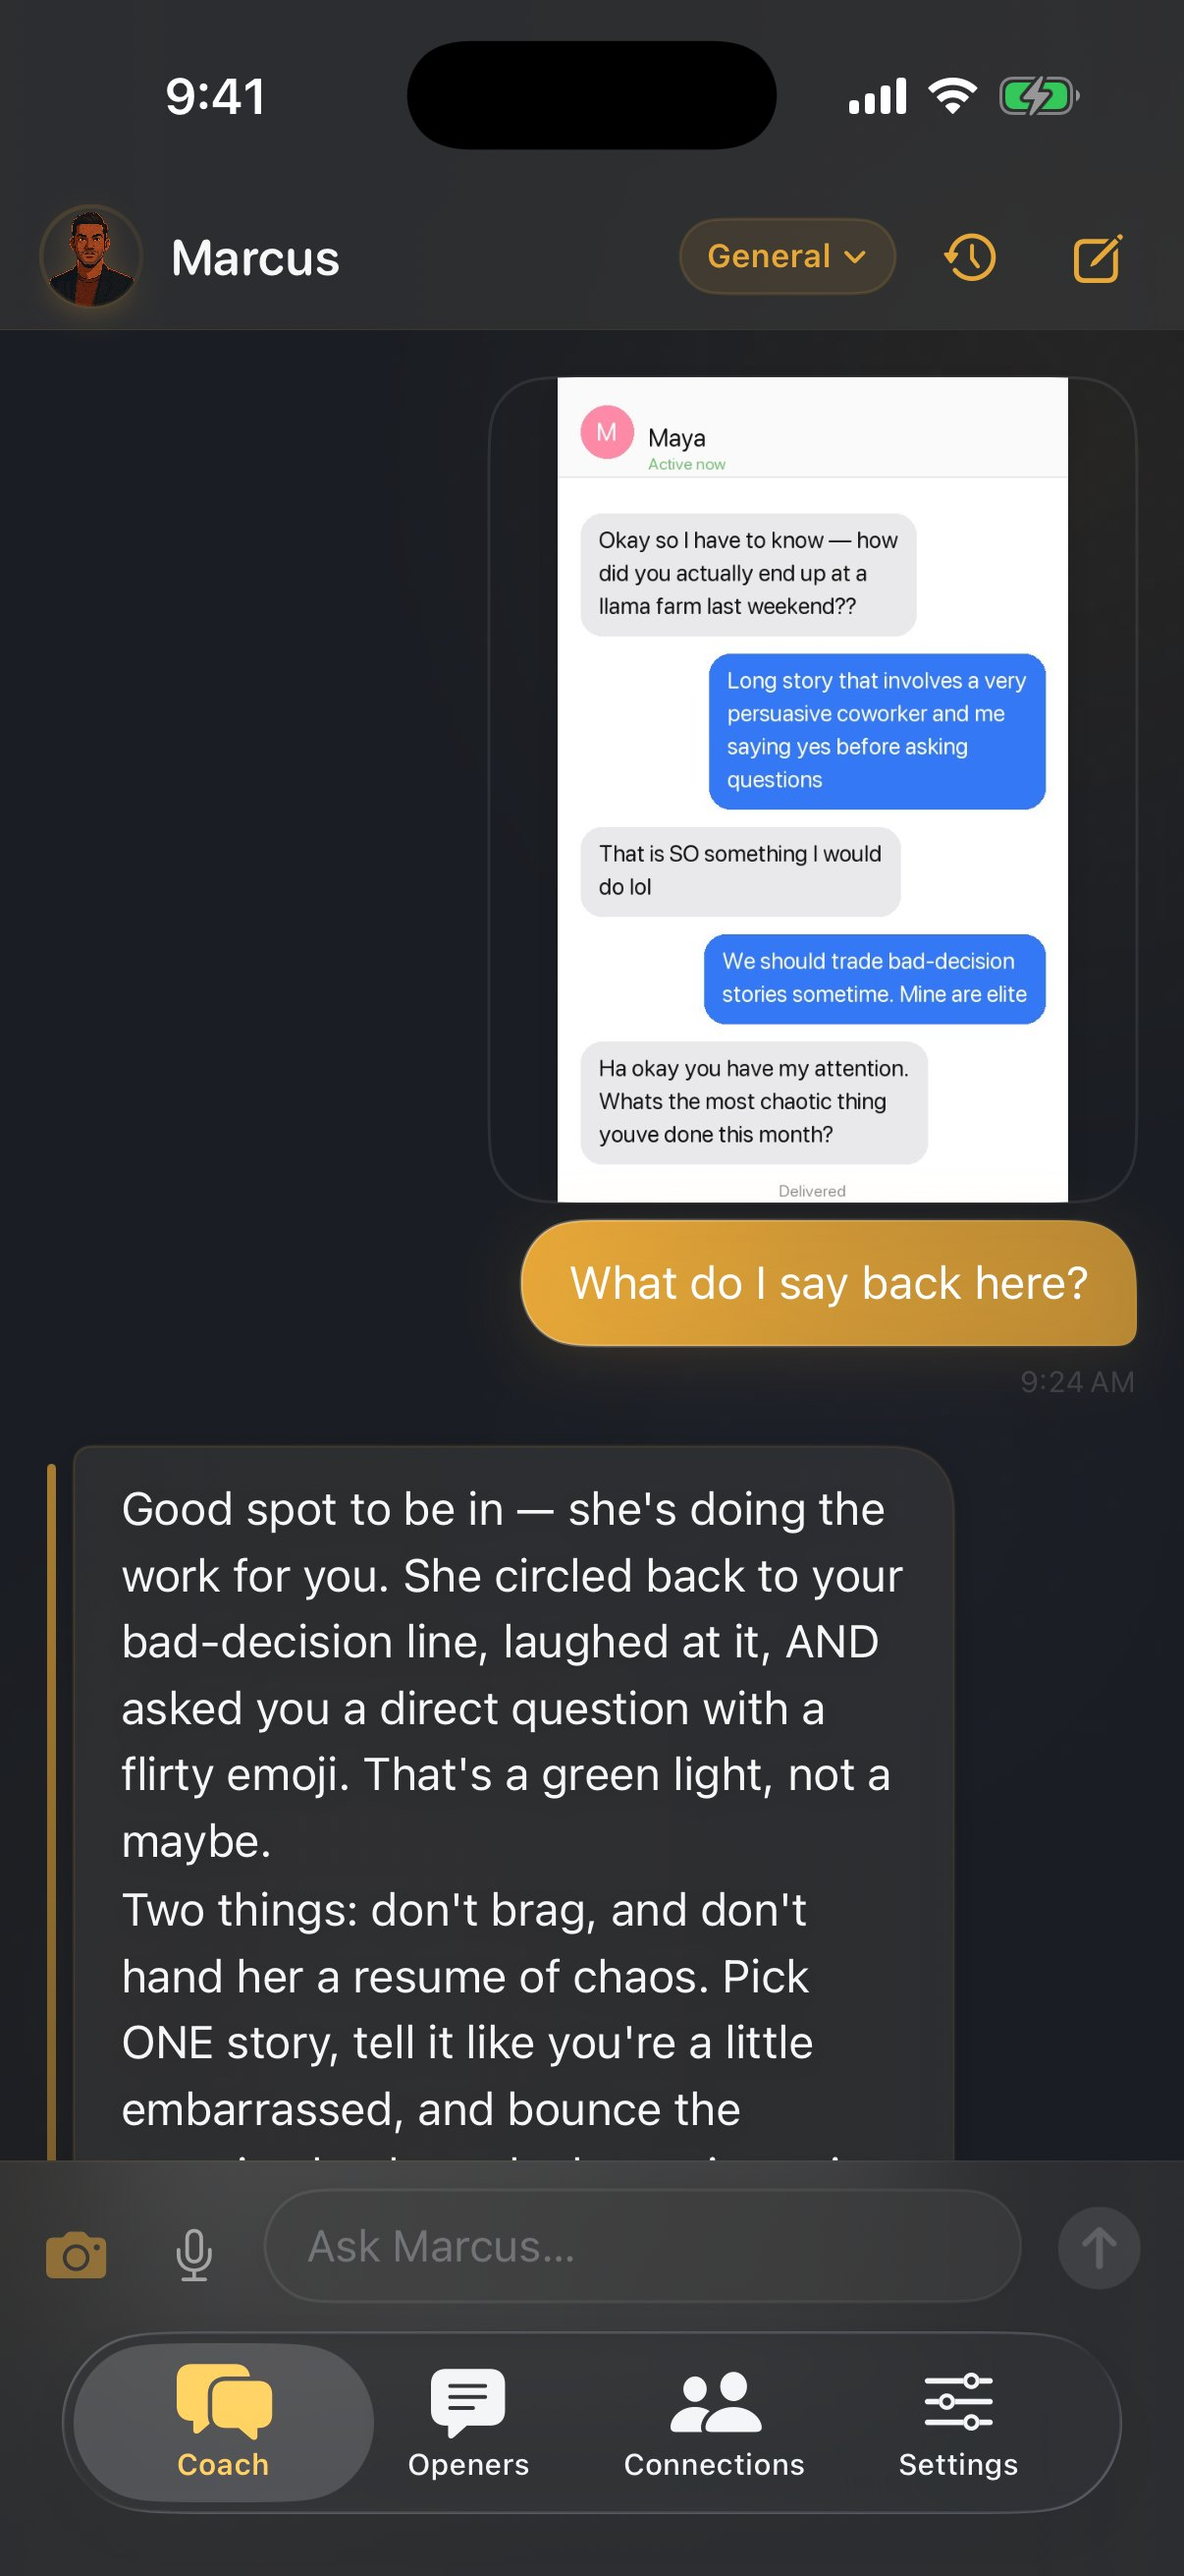
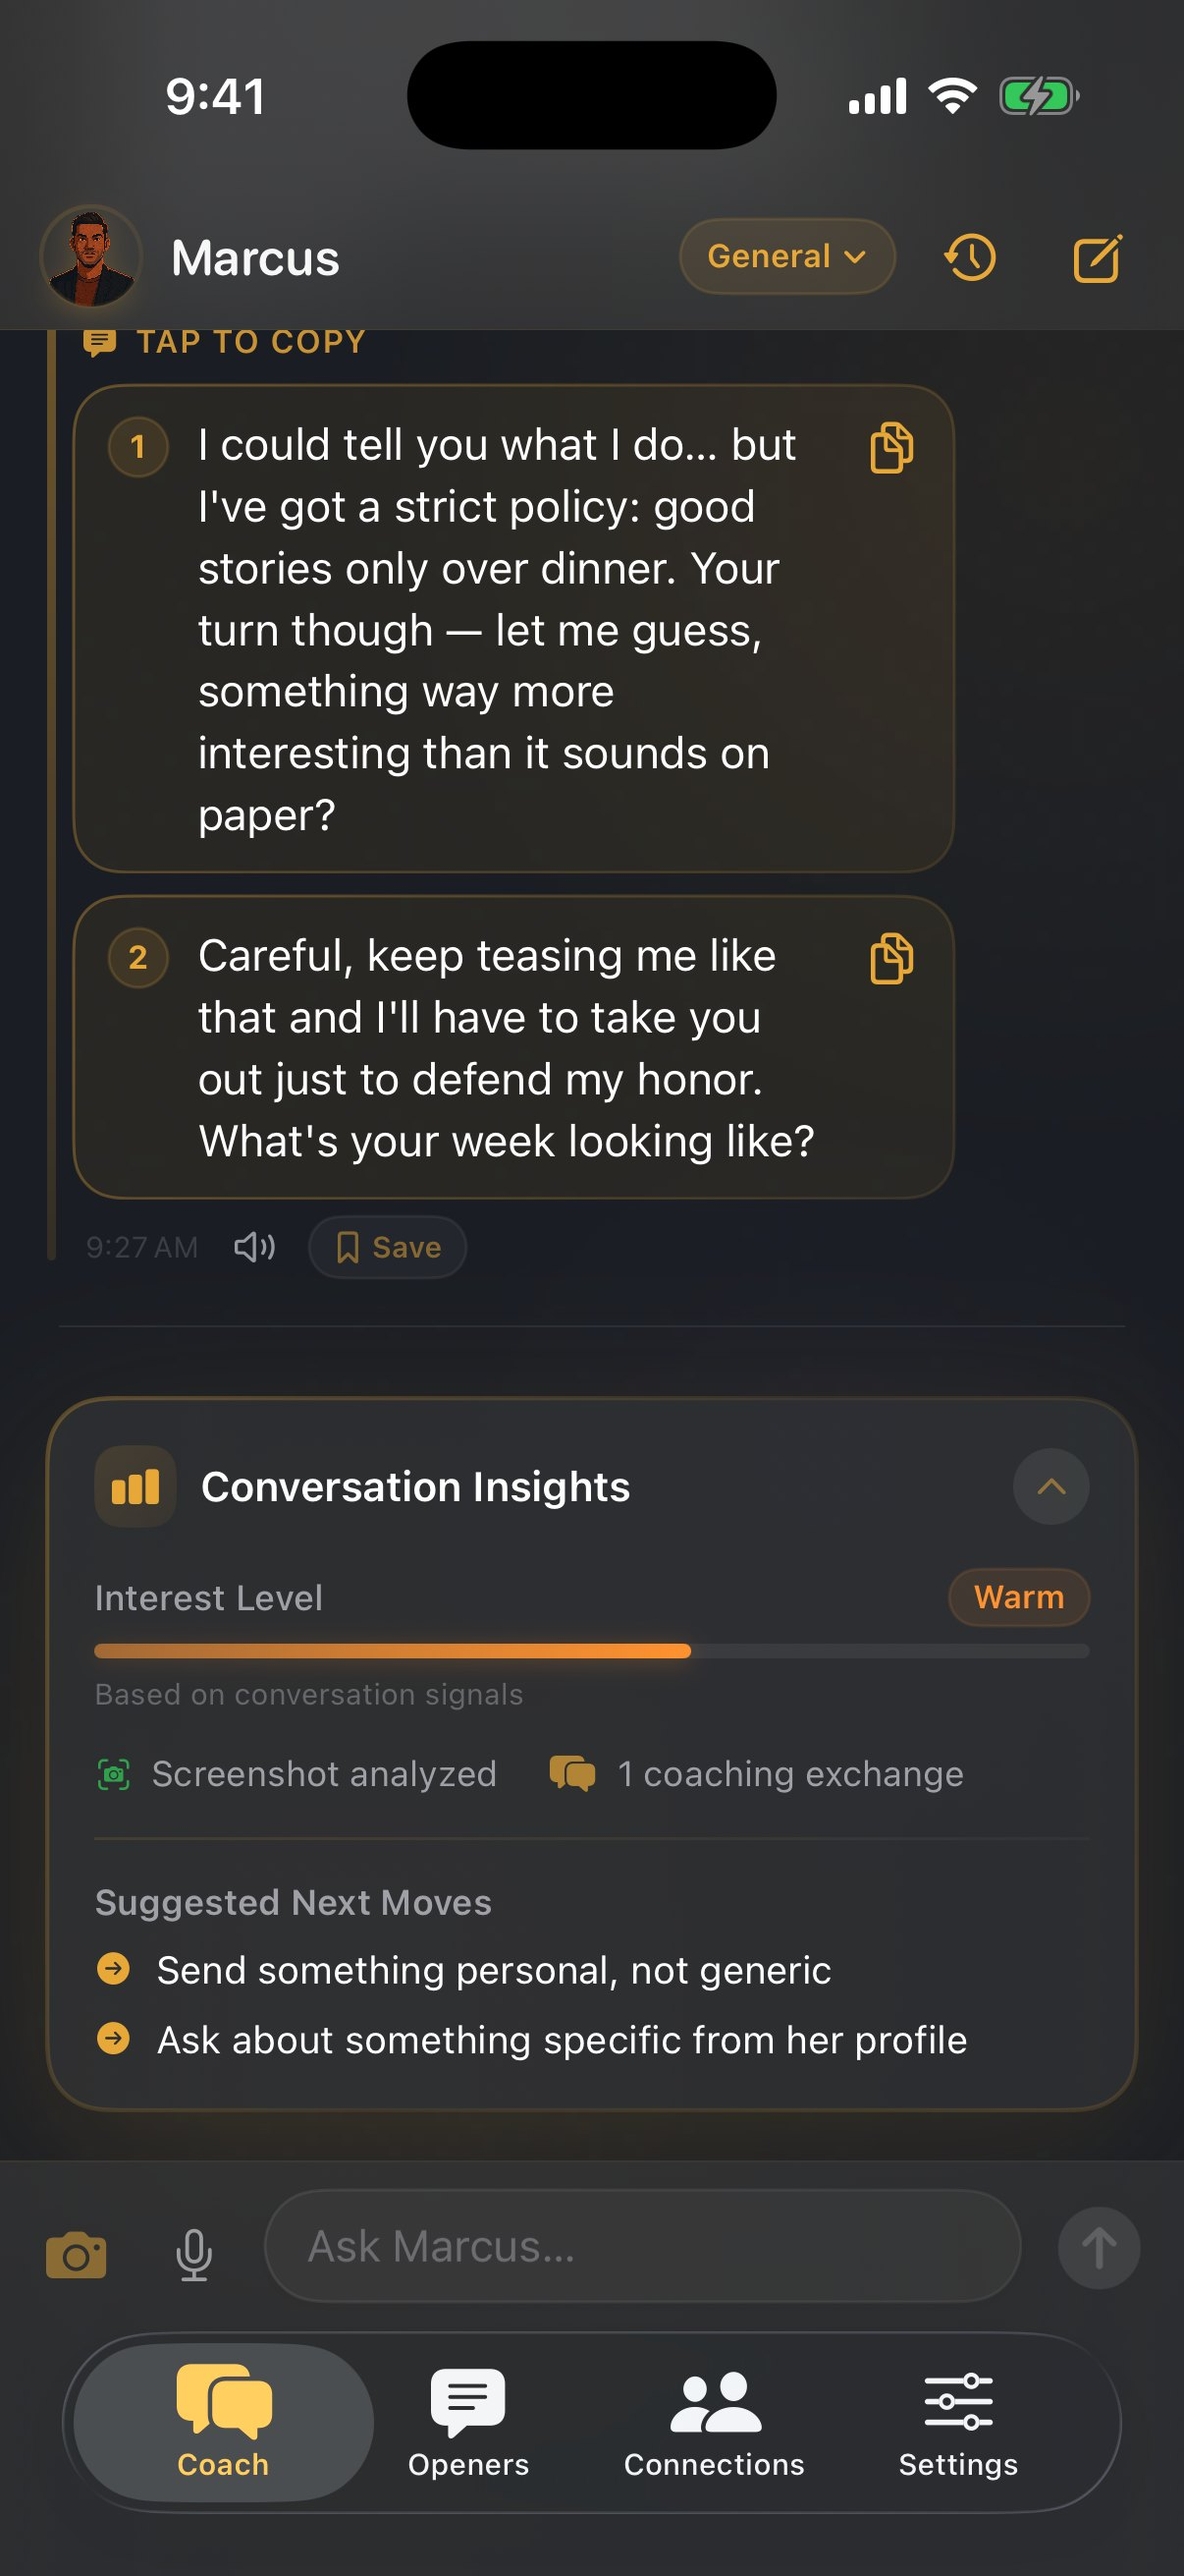
Stronger conversation screenshots that show the payoff
Replace the chat marketing shots with value-delivering captures:
- Hero now shows two tap-to-copy reply suggestions plus the Conversation
  Insights card reading interest level as Warm with suggested next moves.
- New "Screenshot Analysis" shot: coach reads a dark-mode conversation
  screenshot and calls the signals ("she's teasing you — green flag").
- New "Profile → Opener" shot: coach turns a Hinge bio into a specific,
  tailored opener.
Embedded screenshots are now dark-themed to match the app's premium look
instead of washed-out white. Refreshed carousel/gallery order and alt text.

diff --git a/index.html b/index.html
@@ -536,11 +536,11 @@
           <div class="carousel-column">
             <div class="device">
               <div class="screen carousel" id="heroCarousel" aria-roledescription="carousel" aria-label="Wingmate app screenshots">
-                <img class="active" fetchpriority="high" src="assets/screens/screen-chat.jpg" alt="Wingmate chat — Marcus reads a screenshot of a real conversation and breaks down exactly what to say back." data-caption="Real advice, not a chatbot">
+                <img class="active" fetchpriority="high" src="assets/screens/screen-chat.jpg" alt="Wingmate chat — Marcus reads the conversation and hands you two ready-to-send replies with a Warm interest-level read." data-caption="Tap-to-copy replies, not a chatbot">
+                <img src="assets/screens/screen-profile.jpg" alt="Marcus reads a Hinge profile and writes an opener built from her actual bio — her dog, board games, and tacos." data-caption="Openers built from her profile">
+                <img src="assets/screens/screen-analyze.jpg" alt="Drop a screenshot of the conversation and your coach reads the signals — she's testing you, here's how to respond." data-caption="Reads your screenshots">
                 <img src="assets/screens/screen-coaches.jpg" alt="Four coaches — Marcus, Jade, Eli, and Ava — each with a different perspective, all sharing the same memory." data-caption="Four coaches, four perspectives">
-                <img src="assets/screens/screen-openers.jpg" alt="Openers vault — personalized openers organized by platform, ready to copy and send." data-caption="Your opener vault">
                 <img src="assets/screens/screen-connections.jpg" alt="Connections — track everyone you're talking to, from matching to exclusive, with coaching for each." data-caption="Track every connection">
-                <img src="assets/screens/screen-history.jpg" alt="Conversation history — every coaching session, grouped by day and searchable across coaches and connections." data-caption="Every session, saved">
                 <img src="assets/screens/screen-settings.jpg" alt="Settings — switch active coach, adjust coaching tone between Gentle and Direct, and set dating experience level." data-caption="Tune your experience">
               </div>
             </div>
@@ -614,10 +614,26 @@
 
         <div class="screen-card">
           <div class="device">
-            <div class="screen"><img src="assets/screens/screen-chat.jpg" alt="Coach Marcus analyzing a shared conversation screenshot and suggesting the exact reply to send" loading="lazy"></div>
+            <div class="screen"><img src="assets/screens/screen-chat.jpg" alt="Two tap-to-copy reply suggestions and a Conversation Insights card reading interest level as Warm" loading="lazy"></div>
+          </div>
+          <div class="screen-kind">Suggested Replies</div>
+          <div class="screen-name">Two lines, ready to send</div>
+        </div>
+
+        <div class="screen-card">
+          <div class="device">
+            <div class="screen"><img src="assets/screens/screen-analyze.jpg" alt="Coach Marcus reading a shared conversation screenshot and explaining what her messages signal" loading="lazy"></div>
           </div>
           <div class="screen-kind">Screenshot Analysis</div>
-          <div class="screen-name">What to say back</div>
+          <div class="screen-name">Reads the signals</div>
+        </div>
+
+        <div class="screen-card">
+          <div class="device">
+            <div class="screen"><img src="assets/screens/screen-profile.jpg" alt="Coach Marcus turning a Hinge profile's bio prompts into a specific, tailored opener" loading="lazy"></div>
+          </div>
+          <div class="screen-kind">Profile → Opener</div>
+          <div class="screen-name">Built from her bio</div>
         </div>
 
         <div class="screen-card">
